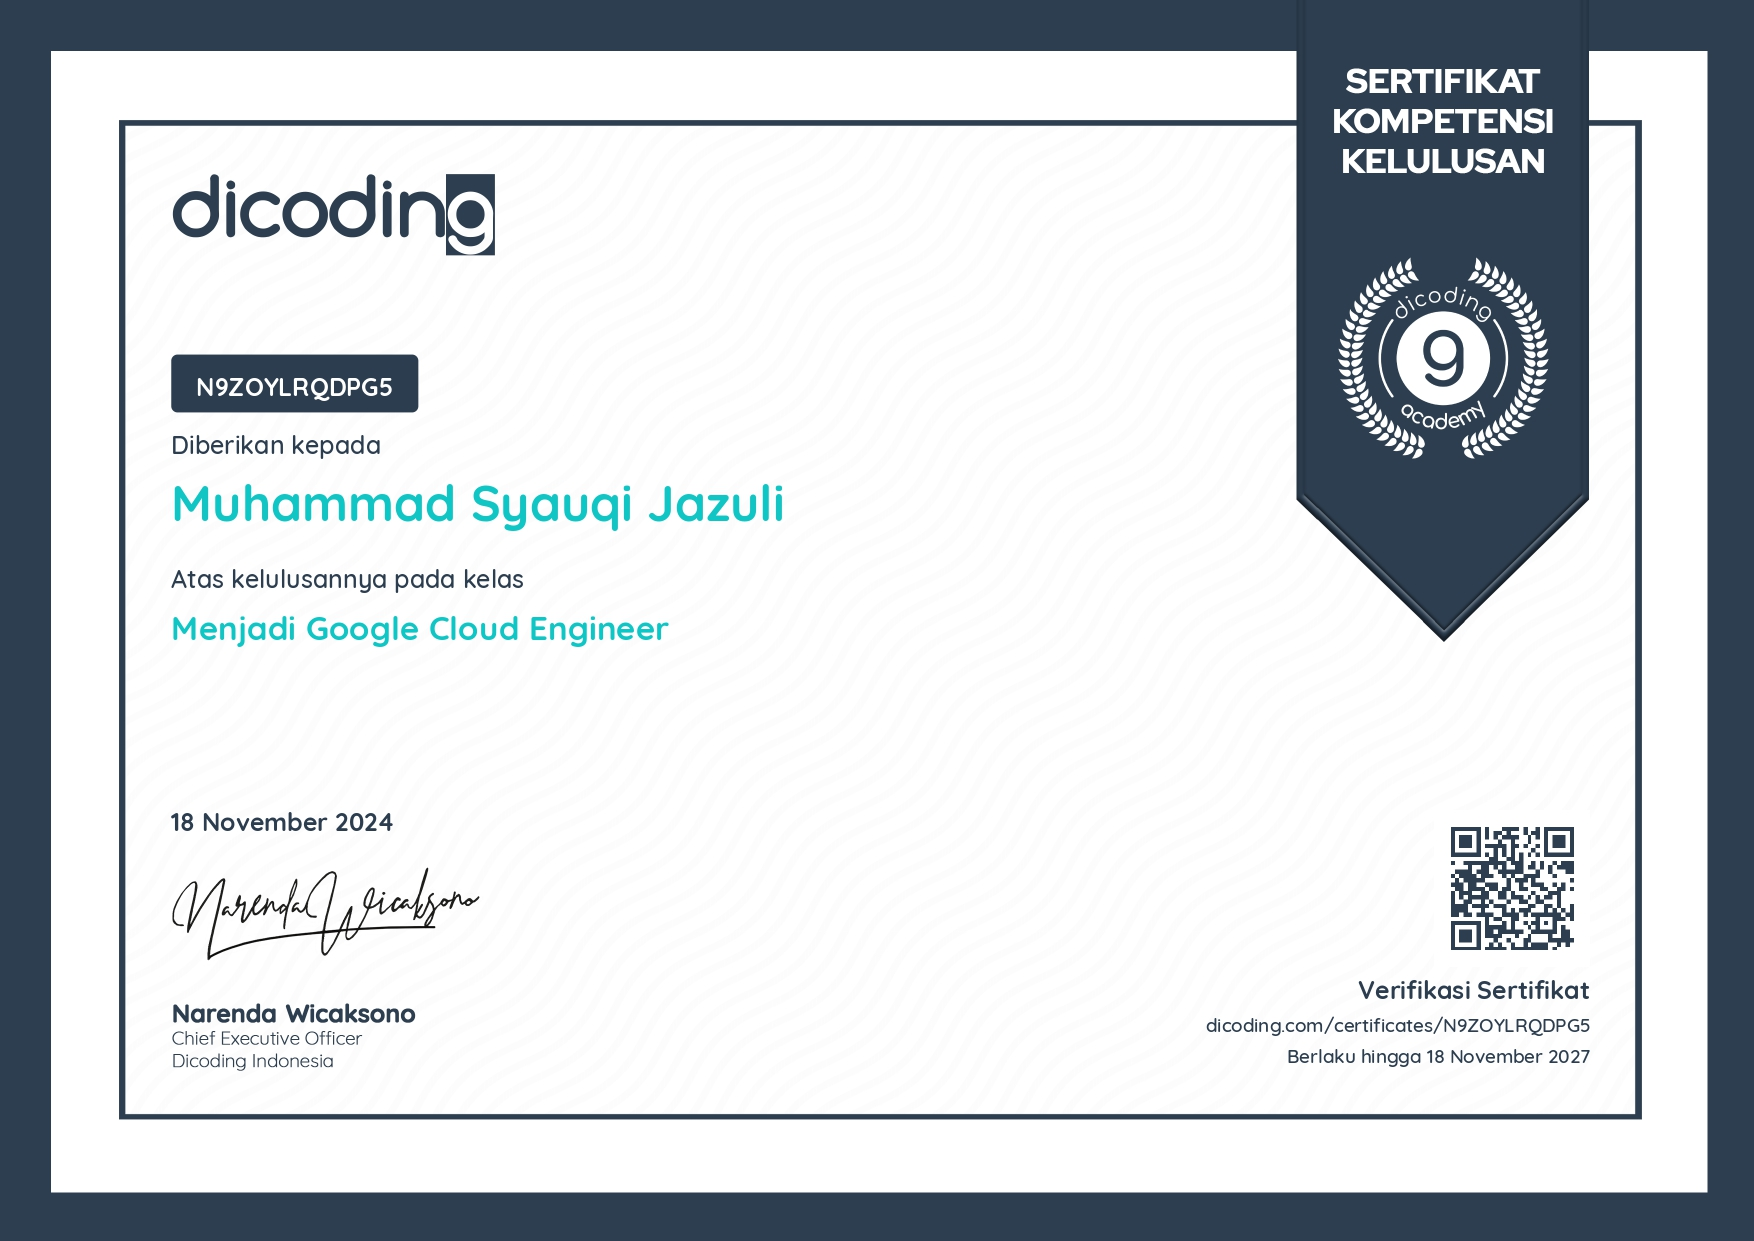
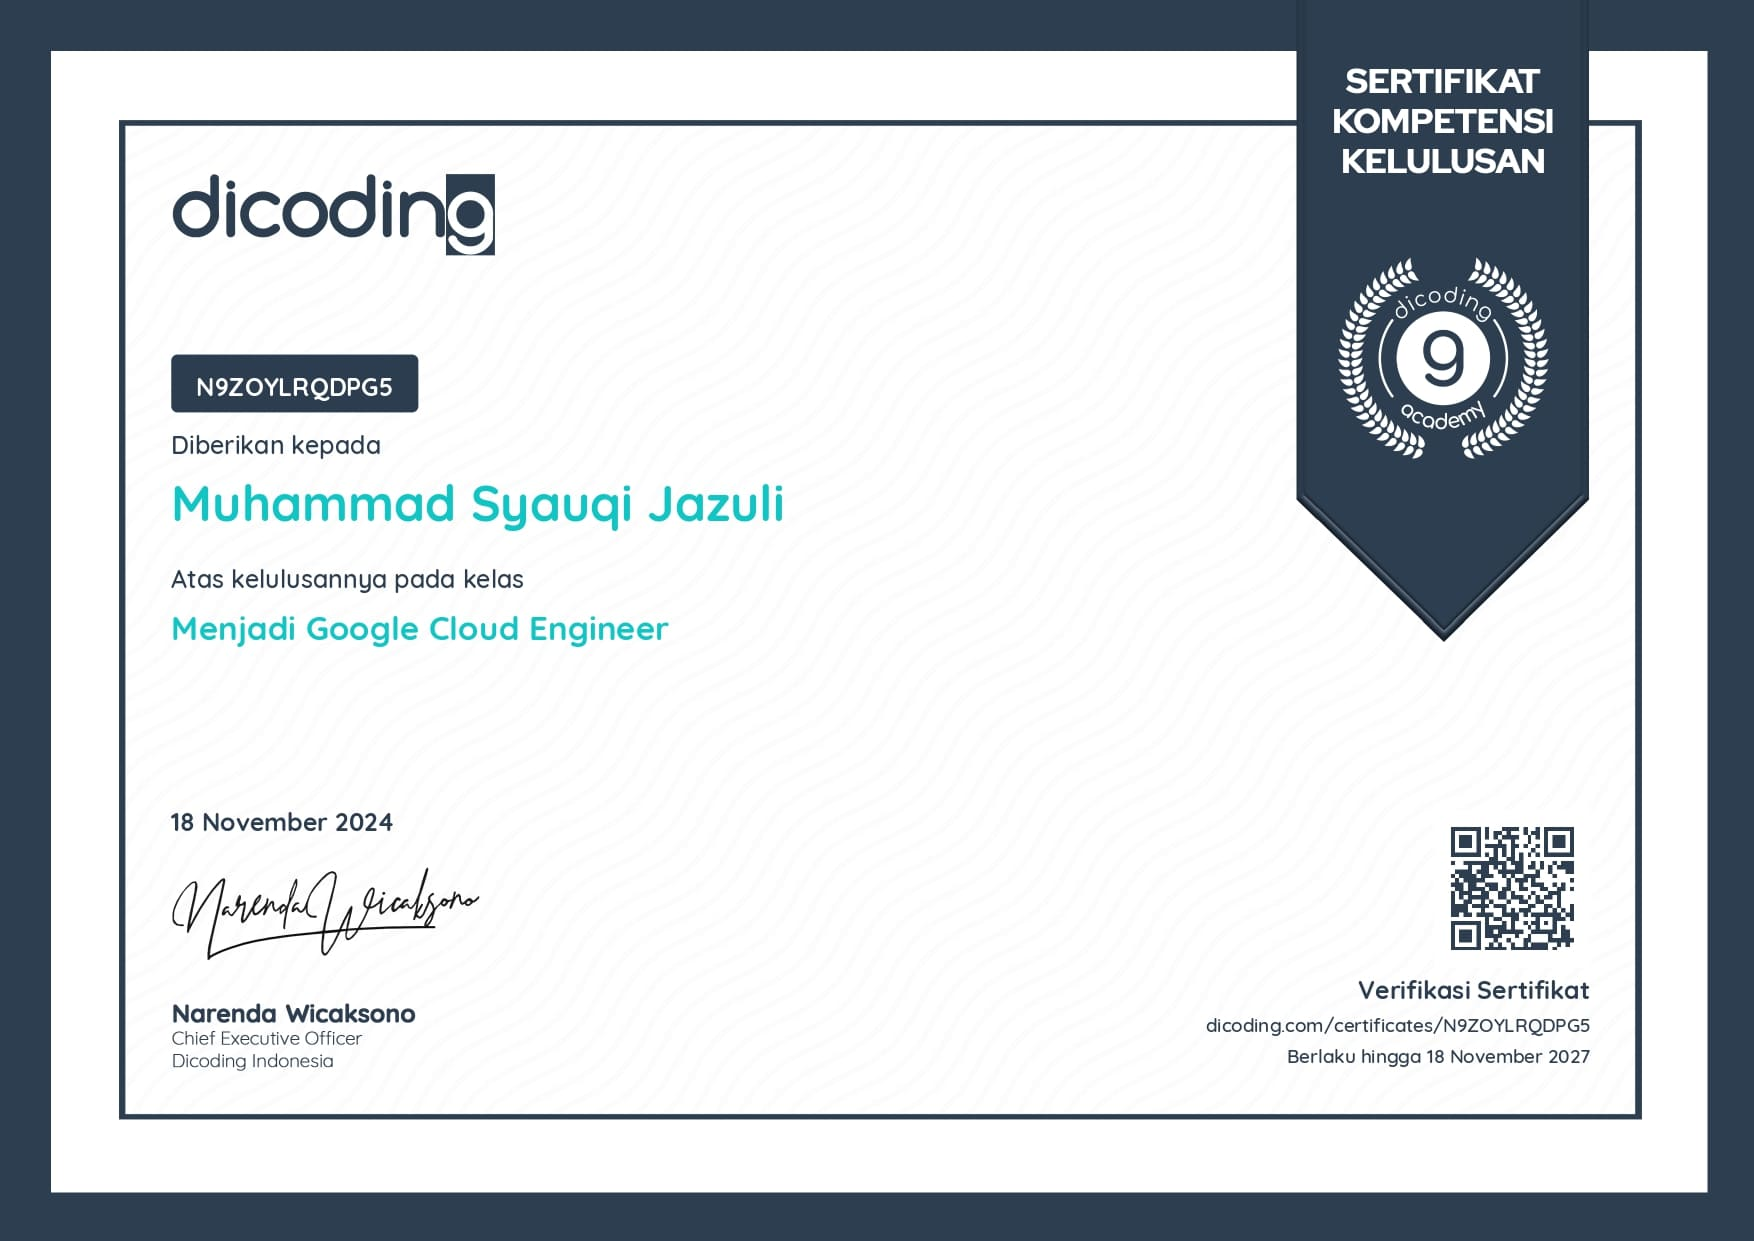
compress photo

Changed region(s): [[0.8312, 0.3368, 0.862, 0.3674]]

diff --git a/index.html b/index.html
@@ -68,7 +68,7 @@
             <div class="row align-items-center gy-5 fade-up">
                 <div class="col-lg-6">
                     <div class="about-img-container mx-auto">
-                        <img src="./Assets/img/Hero-2.png" class="img-fluid rounded-circle shadow" alt="My Journey" loading="lazy">
+                        <img src="./Assets/img/Hero-2.jpg" class="img-fluid rounded-circle shadow" alt="My Journey" loading="lazy">
                         <div class="skill-tag tag-blue">Cloud Computing</div>
                         <div class="skill-tag tag-orange">Graphic Designer</div>
                         <div class="skill-tag tag-green">Frontend Web</div>
@@ -78,7 +78,7 @@
                     <h2 class="fw-bold">My Exciting Journey</h2>
                     <p class="mt-3">I am a student at Universitas Malikussaleh in Lhokseumawe, passionate about Information Technology. My expertise spans cloud computing and web development, reflecting my dedication to development and creativity. My diverse skills are my strength in creating comprehensive and high-quality technology solutions.</p>
                     <p>I am currently a part of the <strong>Bangkit Academy</strong> cohort, where I am focusing on Cloud Computing. This program has sharpened my skills and prepared me to thrive, aiming to be a skilled and well-rounded expert in the tech industry.</p>
-                    <img src="./Assets/img/Group 8.png" alt="Bangkit Logo" style="height: 50px;" loading="lazy">
+                    <img src="./Assets/img/Group 8.jpg" alt="Bangkit Logo" style="height: 50px;" loading="lazy">
                 </div>>
             </div>
         </div>
@@ -91,7 +91,7 @@
                 <div class="col-lg-4 col-md-6 fade-up">
                     <div class="card portfolio-card h-100">
                         <div class="card-img-top-placeholder">
-                           <img src="./Assets/img/Header-photo-card-porto1.png" class="img-fluid" alt="Project 1" loading="lazy">
+                           <img src="./Assets/img/Header-photo-card-porto1.jpg" class="img-fluid" alt="Project 1" loading="lazy">
                         </div>
                         <div class="card-body">
                             <h5 class="card-title fw-bold">Cloud Computing</h5>
@@ -103,7 +103,7 @@
                 <div class="col-lg-4 col-md-6 fade-up">
                     <div class="card portfolio-card h-100">
                         <div class="card-img-top-placeholder">
-                            <img src="./Assets/img/Header-photo-card-porto2.png" class="img-fluid" alt="Project 2" loading="lazy">
+                            <img src="./Assets/img/Header-photo-card-porto2.jpg" class="img-fluid" alt="Project 2" loading="lazy">
                         </div>
                         <div class="card-body">
                             <h5 class="card-title fw-bold">Graphic Designer</h5>
@@ -115,7 +115,7 @@
                 <div class="col-lg-4 col-md-6 fade-up">
                     <div class="card portfolio-card h-100">
                         <div class="card-img-top-placeholder">
-                           <img src="./Assets/img/Header-photo-card-porto3.png" class="img-fluid" alt="Project 3" loading="lazy">
+                           <img src="./Assets/img/Header-photo-card-porto3.jpg" class="img-fluid" alt="Project 3" loading="lazy">
                         </div>
                         <div class="card-body">
                             <h5 class="card-title fw-bold">Frontend</h5>
@@ -154,7 +154,7 @@
                 <div class="col-lg-4 col-md-6 fade-up">
                      <div class="card cert-card h-100">
                         <a href="https://www.cloudskillsboost.google/public_profiles/bb3debc3-4431-4029-bde3-679fb129885a" target="_blank">
-                            <img src="./Assets/img/Certificate-3.png" class="card-img-top p-3" alt="Certificate 3" loading="lazy">
+                            <img src="./Assets/img/Certificate-3.jpg" class="card-img-top p-3" alt="Certificate 3" loading="lazy">
                         </a>
                         <div class="card-body">
                             <h5 class="card-title fw-semibold">Implement DevOps in Google Cloud</h5>
